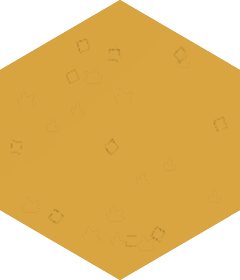
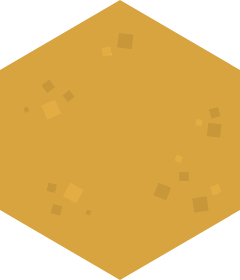
art: le sol de champ redevient une terre unie recolorée par saison
Le commanditaire : « des marques marron plus claires sur les champs, ce
n'est pas très joli ». C'étaient les reliefs éclairés de la dalle KayKit
rendue en 3D (monticules ronds du labour au printemps, petits cubes
d'épis le reste de l'année). Les rangs de culture sont posés par le
décor, région par région : ce sont eux qui font le champ, la dalle
n'apportait que ses taches. Sol de champ = dirt_06 recolorée (labour
brun, blé vert puis or, neige). Journal 101, feuille de route (pistes
pour les collines).

Claude-Session: https://claude.ai/code/session_01XHx1sYnE2rY8XF5VjjnSNn

Changed region(s): [[0.7, 0.0857, 0.7292, 0.1143], [0.4375, 0.1714, 0.4667, 0.2]]

diff --git a/tools/build_images.py b/tools/build_images.py
@@ -862,6 +862,9 @@ class Composer:
             im = blend_toward(im, COLORS["stone_winter"], 0.45)
         elif kind == "dirt" and season == "winter":
             im = blend_toward(im, COLORS["dirt_winter"], 0.55)
+        elif kind == "field":
+            # sol de champ uni, recoloré par saison : la texture, ce sont les rangs de culture du décor
+            im = snowify(im, mask="brownfield") if season == "winter" else recolor(im, COLORS["field"][season], mask="brownfield")
         return im
 
     # --- calques
@@ -1157,22 +1160,17 @@ class Builder:
                 col = "#%02x%02x%02x" % tuple(int(v) for v in arr)
                 self.emit(f"ground_{kind}_{season}", "tiles", im, HP, self.src.hp_original(base), f"Sol « {kind} » ({season}) pour le décor composé par région.",
                           ground=kind, season=season, ground_color=col)
-        # Sol de champ : les deux dalles hexagonales du pack EXTRA, rendues à la verticale, recolorées par saison —
-        # le labour au printemps, le blé le reste de l'année. La dalle est rendue un peu plus large que la tuile
-        # et rognée à l'hexagone : son liseré de terre et ses coins biseautés dessinaient un hexagone net
-        # sur l'île, là où les fondus entre sols effacent partout ailleurs la grille. Les rangs de culture restent posés par région
-        # (obj_crop_*) : ils donnent les sillons, la dalle donne la terre et les épis.
+        # Sol de champ : la terre unie (dirt_06) recolorée par saison — labour brun au printemps, blé
+        # vert puis or, neige l'hiver. Les dalles KayKit (terre, blé) ont été essayées ici : leurs
+        # reliefs éclairés (monticules ronds du labour, petits cubes d'épis) faisaient des taches
+        # claires sur l'île (retour du commanditaire), et les rangs de culture sont de toute façon
+        # posés par le décor, région par région : c'est eux qui font le champ.
         for season in SEASONS:
-            # la dalle de terre est plus étroite que celle de blé : à largeur égale elle dépasserait en hauteur
-            spec = T("field", "dirt_06", [L("kay:terre" if season == "spring" else "kay:ble", 60, 70, "field",
-                                            width=306 if season == "spring" else 312, flat=True, rogne=True,
-                                            mirror=(season == "autumn"))], base_kind="dirt")
-            base = comp.compose(f"ground_field_{season}", spec, season)
+            base = comp.base_for(T("field", "dirt_06", [], base_kind="field"), season)
             arr = np.asarray(base)[120:170, 95:145, :3].reshape(-1, 3).mean(0)
             quoi = "terre labourée" if season == "spring" else "blé"
-            # le pack déclaré est celui du fond (dirt_06) ; la dalle KayKit est créditée d'elle-même (kay_used)
             self.emit(f"ground_field_{season}", "tiles", base, HP, self.src.hp_original("dirt_06"),
-                      f"Sol de champ ({season}) : {quoi} (dalle hexagonale du pack EXTRA, rendue à la verticale) ; les rangs de culture sont ajoutés par région.",
+                      f"Sol de champ ({season}) : {quoi}, terre unie recolorée ; les rangs de culture sont ajoutés par région.",
                       ground="field", season=season, ground_color="#%02x%02x%02x" % tuple(int(v) for v in arr))
         im = comp.base_for(T("dry", "grass_05", [], base_kind="dry"), "summer")
         arr = np.asarray(im)[120:170, 95:145, :3].reshape(-1, 3).mean(0)

diff --git a/JOURNAL_DE_BORD.md b/JOURNAL_DE_BORD.md
@@ -405,6 +405,7 @@ Le proxy réseau bloque les sites des banques ; les assets sont récupérés dep
 | 2026-09-22 | 98 | Lead (retours du commanditaire : « des itinéraires assez bizarres », « l'ondulation est trop prononcée ») | **Chemins : itinéraires droits, ondulation discrète.** (1) Le sentier entre deux villages partait vers la côte pour revenir : le parcours en largeur gardait le *premier* plus court chemin trouvé, et à longueur égale ce pouvait être celui qui fait un crochet par une case de côté. On explore maintenant tous les plus courts chemins (six par case au plus) et on garde le plus **droit** — celui dont les cases intermédiaires s'écartent le moins de la corde entre les deux villages. (2) Une case traversée faisait un crochet par son centre : le point de passage est tiré à 55 % vers le milieu des deux arêtes franchies, le chemin **coupe** la case. (3) L'ondulation du ruban passe de ± 15 % à ± 8 % de largeur, et les bords de ± 35 % sur 9 px à ± 18 % sur 12 px | Îles 14 (hiver) et 26 (été) photographiées ; suite complète avant la poussée | — |
 | 2026-09-22 | 99 | Lead (question du commanditaire : « c'est quoi le problème de la glace en hexagone ? ») | **Ce n'était pas la glace.** La feuille de route disait « eau gelée en hexagones pleins » : une hypothèse, pas une mesure. Vérifié par captures en isolant chaque couche (eau désactivée, cours désactivées, ourlet désactivé, grille et sols affichés) : les arêtes droites blanches d'hiver autour des mares venaient de **trois** choses, toutes du côté de la terre. (a) La **berge** d'une case d'eau (son sol de dessous) était un hexagone plein sans langue de sol : les cases d'eau reçoivent maintenant les mêmes langues que la terre, et une voisine d'eau déborde par sa berge (rizière à berge de terre contre rivière à berge de neige). (b) Le **cache-couture** entre une terre et une eau voisine peignait une bande unie du sol de la terre en travers de la berge : réservé aux sols identiques, berge comprise. (c) L'**ourlet** des arêtes côtières était un trapèze radial qui s'élargissait vers le large et débordait de côté sur la terre gagnée par l'érosion de la voisine — un lac à berge d'herbe peignait du blanc sur la côte du marais ; c'est une bande droite parallèle à l'arête désormais. Au passage, `riveDe` prend la berge choisie par le décor (le sol majoritaire des voisines) et non la première voisine venue | Île 29 en hiver (marais, eau) photographiée avant/après chaque couche | — |
 | 2026-09-22 | 100 | Lead (question du commanditaire sur le « liseré clair du sable ») | **Le sable sans couture.** Le sprite `sand_07` du Hexagon Pack porte, dans l'image, un bord plus clair : entre deux tuiles de sable, les deux bords formaient une ligne claire droite (visible sur la capture du commanditaire, en bas à gauche). Même remède que la dalle du champ (journal 93) : option `base_zoom` du pipeline, la base est agrandie de 8 % autour de son centre puis rognée à l'hexagone de référence ; douze images de sable refaites | Pipeline relancé (le contrôle « hexagone non aligné » refusait d'abord 226 pixels de bord anticrénelé : l'alpha de la base agrandie est celui de référence) ; île 14 photographiée | Les autres sols gardent leur liseré (l'ourlet les couvre sur la côte) : à généraliser si une couture ressort ailleurs |
+| 2026-09-22 | 101 | Lead (retour du commanditaire : « sur les champs il y a des marques marron plus claires, ce n'est pas très joli ») | **Le sol de champ redevient une terre unie.** Les marques étaient les reliefs de la dalle KayKit rendue en 3D et éclairée : au printemps les monticules ronds de la dalle « terre » (des cratères clairs à l'échelle de l'île), le reste de l'année les petits cubes d'épis de la dalle « blé ». Or les rangs de culture sont posés par le décor, région par région : c'est eux qui font le champ, la dalle n'apportait que ses taches. Le sol de champ est maintenant la terre unie `dirt_06` recolorée par saison (labour brun, blé vert puis or, neige) — `base_kind="field"` dans le pipeline, quatre images refaites. Les cartes de tuile (`field_1/2`) gardent leur dalle rognée : ce sont des vignettes | Îles 14 (printemps) et 26 (été) photographiées ; suite complète avant la poussée | Le journal 93 avait élargi et rogné cette dalle pour en ôter le liseré : deux itérations pour finir par la retirer du sol — la leçon « un modèle 3D rendu à plat apporte ses reliefs » est la même |
 
 ---
 

diff --git a/FEUILLE_DE_ROUTE.md b/FEUILLE_DE_ROUTE.md
@@ -266,6 +266,8 @@ Tutoriel pour le commanditaire : `docs/FIREBASE_TUTO.pdf`. Règles : `firestore.
 | Tournée finale réécrite | Trois ou quatre plans nommés au lieu de douze étapes égales, vague qui salue le reste, fronts de saison habités, carte postale qui se fabrique autour du paysage, voilier qui part, toucher qui accélère avant de passer, version courte aux reprises | fait (journal 90) |
 | Champs et landes trop hexagonaux, arêtes trop pointues | Dalle du champ rendue plus large et rognée à l'hexagone (pipeline, `rogne=True`) ; fondus entre sols à **sens unique**, en langues **rondes** (distance au segment, lobes aux sommets, lisière douce) ; les reliefs se fondent aussi ; rangs de culture qui s'effilochent en lisière | fait (journal 93, 95) |
 | Chemins plus naturels | Itinéraires : le plus droit des plus courts, le chemin coupe la case ; ondulation discrète (journal 98). Rubans de terre battue : largeur qui ondule, bords effilochés, bouts effilés, motif de terre découpé dans l'image de sol, cailloux et touffes au bord. Le pointillé doré qui clignotait dans la tournée est retiré | fait (journal 96, 97) |
+| Marques claires sur les champs | Reliefs éclairés de la dalle KayKit (monticules, cubes d'épis) : sol de champ remplacé par une terre unie recolorée par saison, les rangs de culture font le champ | fait (journal 101) |
+| Collines à flancs bruns (« tuiles de falaises ») | Le sol de colline est la tuile surélevée `grass_17` du Hexagon Pack : un bloc hexagonal à flancs bruns, à arêtes droites, qui ne se fond pas. Pistes proposées au commanditaire : collines en volume du pack EXTRA (hill_single, hills, mountain — six modèles rendus en aperçu) sur un sol d'herbe plat ; relief par l'ombre ; falaises côtières ; détail de sommet ; éboulis des massifs | à trancher |
 | Liseré clair des images de sable | Base agrandie de 8 % et rognée à l'hexagone (`base_zoom`) : plus de couture entre deux sables | fait (journal 100) |
 | Arêtes droites d'hiver autour des mares (dites « glace en hexagones ») | Ce n'était pas la glace : berge des cases d'eau sans langue de sol, cache-couture terre/eau, ourlet en trapèze qui débordait de côté. Les trois corrigés | fait (journal 99) |
 | Littoral naturel | Contour global de l'île (arêtes de bord enchaînées en boucles), lissé puis érodé au bruit fBM le long de la normale ; découpe des sols, écume, halo, ombre portée et teinte de climat sur ce seul contour. Les étangs et lacs qui touchent la mer deviennent des anses | fait (journal 85) |
